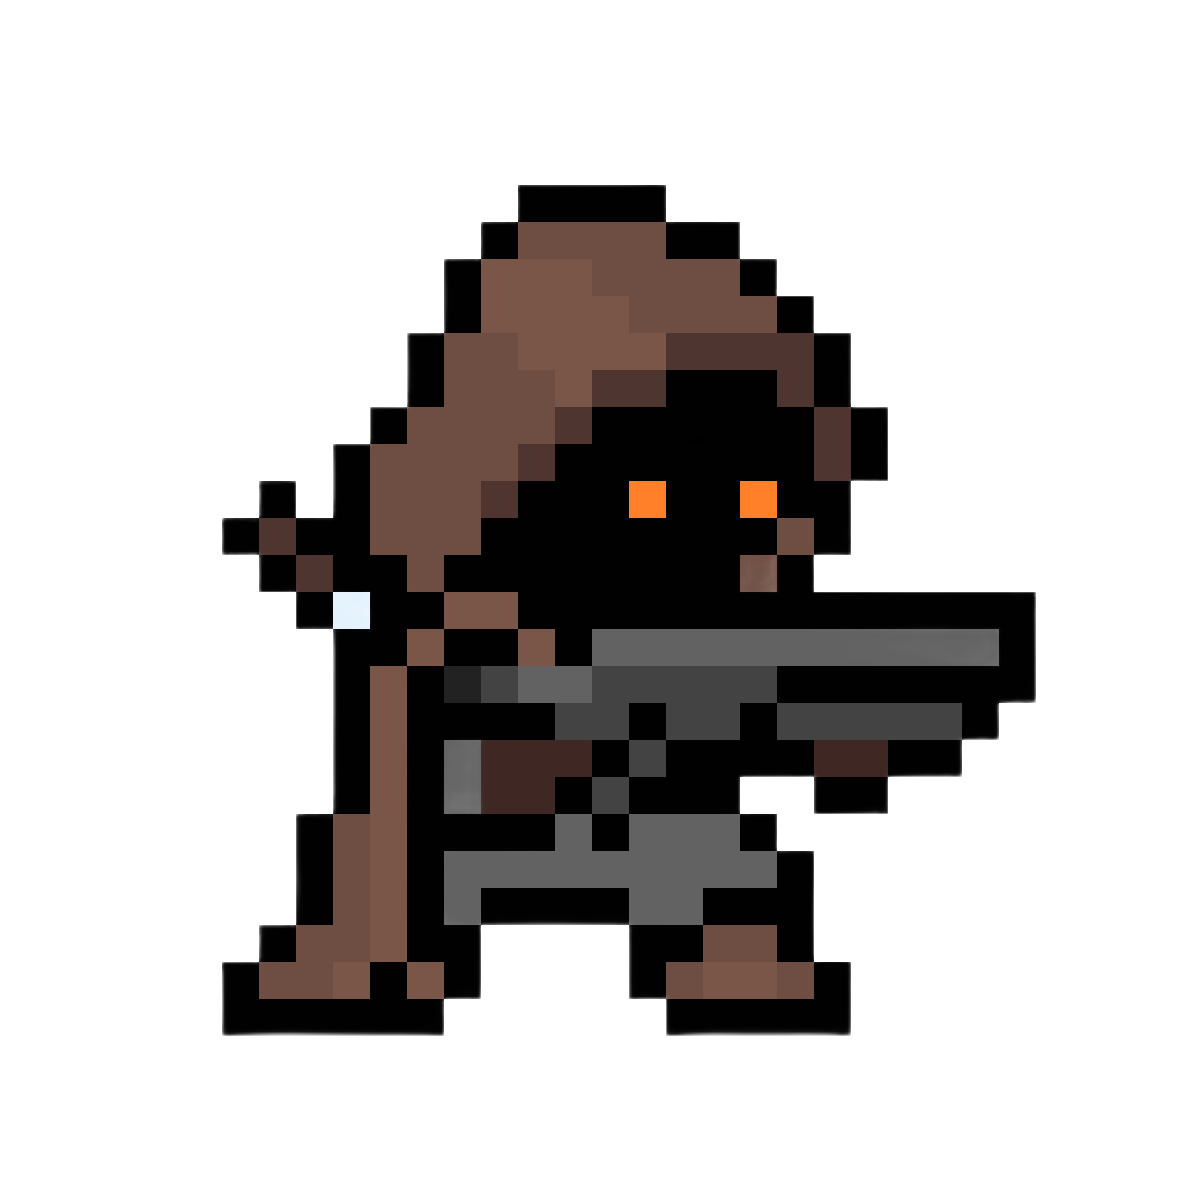
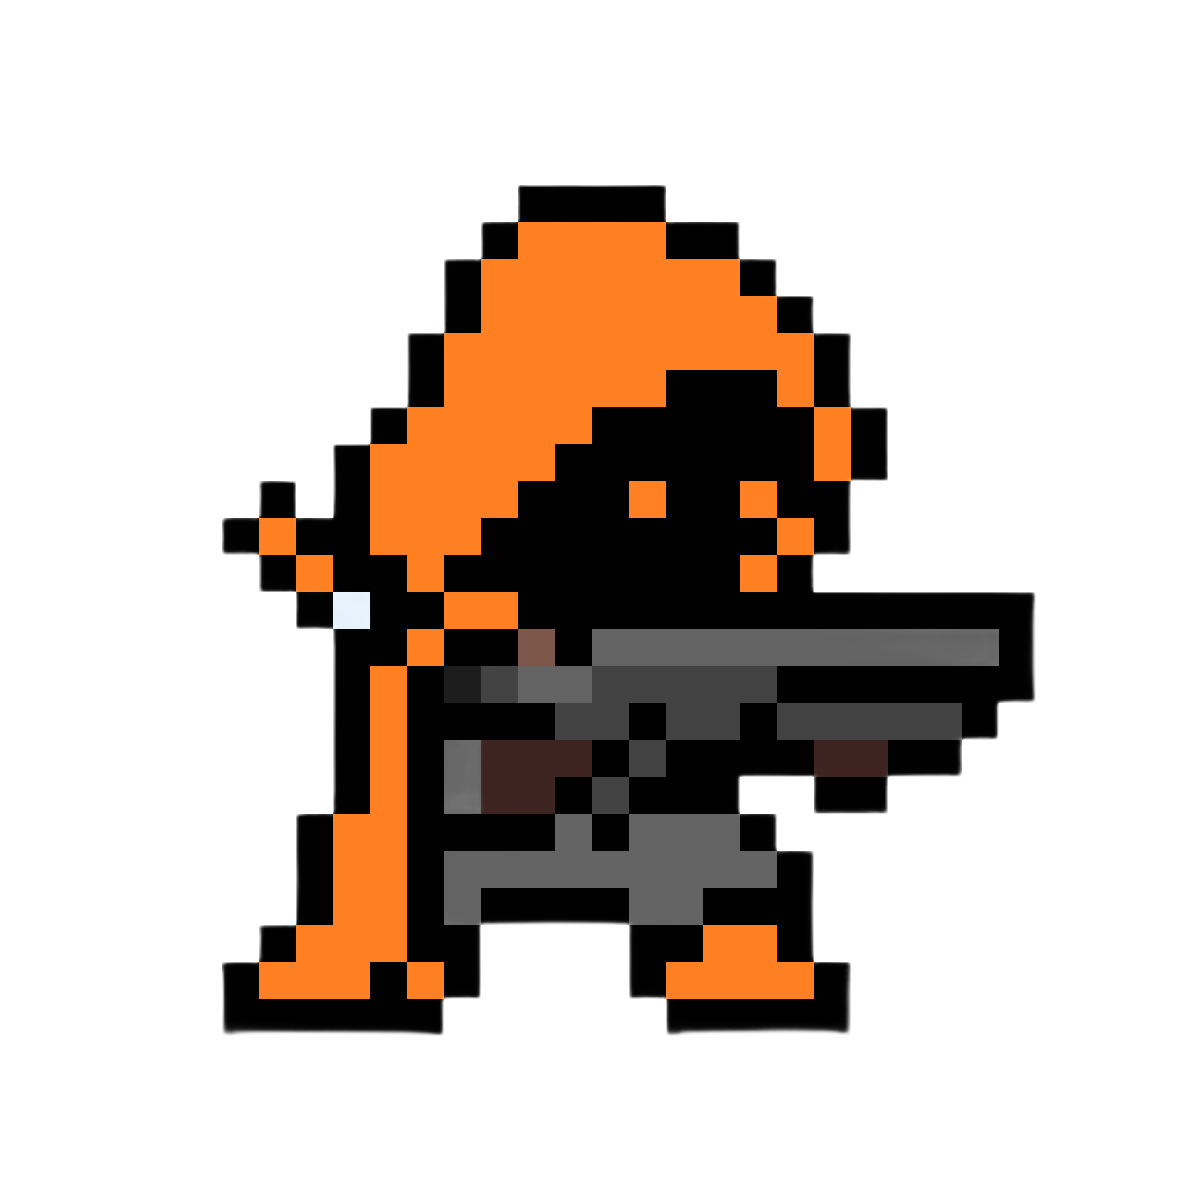
_

diff --git a/titkov.vladislav-game-master/src/scenes/MainMenuScene.cpp b/titkov.vladislav-game-master/src/scenes/MainMenuScene.cpp
@@ -9,6 +9,12 @@
 #include "components/TextureComponent.h"
 #include "components/TransformComponent.h"
 
+void PrintMessage(int x, int y, int cursor_y, const char* message) {
+  if (cursor_y == y) terminal_color("white");
+  terminal_print(x, y, message);
+  terminal_color("gray");
+}
+
 void MainMenuScene::OnCreate() {
   ctx_->health_ = 100;
   ctx_->bullets_ = 0;
@@ -22,10 +28,13 @@ void MainMenuScene::OnRender() {
 
   terminal_color("white");
   terminal_print(x, y, "->");
+  terminal_color("gray");
 
-  terminal_print(x + 2, min_y, "Story mode");
-  terminal_print(x + 2, min_y + 1, "Battlefield");
-  terminal_print(x + 2, min_y + 2, "Leaderboard");
+  PrintMessage(x + 2, min_y, y, "Story mode");
+  PrintMessage(x + 2, min_y + 1, y, "Battlefield");
+  PrintMessage(x + 2, min_y + 2, y, "Leaderboard");
+  PrintMessage(x + 2, min_y + 3, y, "Graphic");
+  PrintMessage(x + 2, min_y + 4, y, "Exit");
 
   if (controls_.IsPressed(TK_UP)) {
     y--;
@@ -36,11 +45,26 @@ void MainMenuScene::OnRender() {
     if (y > max_y) y = min_y;
   }
 
+  if (y == min_y + 3) {
+    if (ctx_->is_graphic) terminal_color("white");
+    terminal_print(x + 15, min_y + 3, "On");
+    terminal_color("gray");
+
+    if (!ctx_->is_graphic) terminal_color("white");
+    terminal_print(x + 19, min_y + 3, "Off");
+    terminal_color("gray");
+  }
+
   if (controls_.IsPressed(TK_ENTER)) {
     if (y == min_y) ctx_->scene_ = ctx_->levels_[static_cast<int>(2)];
     if (y == min_y + 1) ctx_->scene_ = ctx_->levels_[static_cast<int>(1)];
     if (y == min_y + 2) ctx_->scene_ = ctx_->levels_[static_cast<int>(ctx_->levels_.size() - 4)];
+    if (y == min_y + 3) ctx_->is_graphic = !ctx_->is_graphic;
+    if (y == min_y + 4) ctx_->is_exit = true;
   }
+
+  if (y == min_y + 3 && (controls_.IsPressed(TK_RIGHT) || controls_.IsPressed(TK_LEFT)))
+    ctx_->is_graphic = !ctx_->is_graphic;
 
   terminal_refresh();
 }

diff --git a/titkov.vladislav-game-master/src/scenes/BattlefieldScene.cpp b/titkov.vladislav-game-master/src/scenes/BattlefieldScene.cpp
@@ -8,6 +8,7 @@
 #include "components/DamageComponent.h"
 #include "components/DoorComponent.h"
 #include "components/FoodComponent.h"
+#include "components/GraphicComponent.h"
 #include "components/HealthComponent.h"
 #include "components/MovementComponent.h"
 #include "components/PlayerMoveControlComponent.h"
@@ -72,6 +73,7 @@ void BattlefieldScene::OnRender() {
     entity->Add<DamageComponent>(50);
     entity->Add<TransformComponent>(i, j);
     entity->Add<TextureComponent>('E');
+    entity->Add<GraphicComponent>(0x03);
   }
 
   if (snake_delay.IsReady()) {
@@ -93,6 +95,7 @@ void BattlefieldScene::OnRender() {
     entity->Add<PoisonComponent>(50);
     entity->Add<TransformComponent>(i, j);
     entity->Add<TextureComponent>('S');
+    entity->Add<GraphicComponent>(0x04);
   }
 
   if (bullet_delay.IsReady()) {
@@ -108,6 +111,7 @@ void BattlefieldScene::OnRender() {
     entity->Add<ColorComponent>("green");
     entity->Add<TransformComponent>(i, j);
     entity->Add<TextureComponent>('$');
+    entity->Add<GraphicComponent>(0x06);
   }
 
   if (food_delay.IsReady()) {
@@ -123,6 +127,7 @@ void BattlefieldScene::OnRender() {
     entity->Add<ColorComponent>("green");
     entity->Add<TransformComponent>(i, j);
     entity->Add<TextureComponent>('%');
+    entity->Add<GraphicComponent>(0x07);
   }
 
   if (antidote_delay.IsReady()) {
@@ -138,6 +143,7 @@ void BattlefieldScene::OnRender() {
     entity->Add<ColorComponent>("green");
     entity->Add<TransformComponent>(i, j);
     entity->Add<TextureComponent>('&');
+    entity->Add<GraphicComponent>(0x05);
   }
 
   enemy_delay.Update();

diff --git a/titkov.vladislav-game-master/src/scenes/BattlefieldGameOverScene.cpp b/titkov.vladislav-game-master/src/scenes/BattlefieldGameOverScene.cpp
@@ -4,9 +4,15 @@
 
 #include <string>
 
+void PrintMessage(int x, int y, int cursor_y, const char* message) {
+  if (cursor_y == y) terminal_color("white");
+  terminal_print(x, y, message);
+  terminal_color("gray");
+}
+
 void BattlefieldGameOverScene::OnCreate() {
   ctx_->attempts_++;
-    for (int i = 0; i < 3; i++) {
+  for (int i = 0; i < 3; i++) {
     if (ctx_->score_ >= ctx_->score_leaders_[i]) {
       for (int j = 2; j > i; j--) {
         ctx_->score_leaders_[j] = ctx_->score_leaders_[j - 1];
@@ -26,14 +32,15 @@ void BattlefieldGameOverScene::OnRender() {
   std::string score = "Scores: " + std::to_string(ctx_->score_);
 
   terminal_print(35, 11, "Game over");
-  terminal_print(30, 15, steps.c_str());
-  terminal_print(30, 16, score.c_str());
+  terminal_print(35, 15, steps.c_str());
+  terminal_print(35, 16, score.c_str());
 
   terminal_color("white");
   terminal_print(x, y, "->");
+  terminal_color("gray");
 
-  terminal_print(x + 2, min_y, "Leaderboard");
-  terminal_print(x + 2, min_y + 1, "Main menu");
+  PrintMessage(x + 2, min_y, y, "Leaderboard");
+  PrintMessage(x + 2, min_y + 1, y, "Main menu");
 
   if (controls_.IsPressed(TK_UP)) {
     y--;

diff --git a/titkov.vladislav-game-master/src/Reader.cpp b/titkov.vladislav-game-master/src/Reader.cpp
@@ -88,6 +88,7 @@ void Reader::ReadFile() {
             entity->Add<ColorComponent>("yellow");
             entity->Add<TransformComponent>(i, j);
             entity->Add<TextureComponent>('X');
+            entity->Add<GraphicComponent>(0x10);
           }
 
           else if (myArray[i][j] == '#') {
@@ -103,6 +104,7 @@ void Reader::ReadFile() {
             entity->Add<DoorComponent>(false);
             entity->Add<TransformComponent>(i, j);
             entity->Add<TextureComponent>('<');
+            entity->Add<GraphicComponent>(0x09);
 
             if (ctx_->is_it_next_level_ && player->Contains<TransformComponent>()) {
               player->Get<TransformComponent>()->x_ = i + 1;
@@ -115,6 +117,7 @@ void Reader::ReadFile() {
             entity->Add<DoorComponent>(true);
             entity->Add<TransformComponent>(i, j);
             entity->Add<TextureComponent>('>');
+            entity->Add<GraphicComponent>(0x09);
 
             if (!ctx_->is_it_next_level_ && player->Contains<TransformComponent>()) {
               player->Get<TransformComponent>()->x_ = i - 1;

diff --git a/titkov.vladislav-game-master/src/systems/BoxSystem.cpp b/titkov.vladislav-game-master/src/systems/BoxSystem.cpp
@@ -7,6 +7,7 @@
 #include "components/BoxComponent.h"
 #include "components/ColorComponent.h"
 #include "components/FoodComponent.h"
+#include "components/GraphicComponent.h"
 #include "components/MovementComponent.h"
 #include "components/TextureComponent.h"
 #include "components/TransformComponent.h"
@@ -57,6 +58,7 @@ void BoxSystem::OnUpdate() {
               entity->Add<ColorComponent>("green");
               entity->Add<TransformComponent>(box_tc->x_ + rx, box_tc->y_ + ry);
               entity->Add<TextureComponent>('$');
+              entity->Add<GraphicComponent>(0x06);
 
               box_bc->bullet_count_--;
             } else if (box_bc->food_count_ > 0) {
@@ -65,6 +67,7 @@ void BoxSystem::OnUpdate() {
               entity->Add<ColorComponent>("green");
               entity->Add<TransformComponent>(box_tc->x_ + rx, box_tc->y_ + ry);
               entity->Add<TextureComponent>('%');
+              entity->Add<GraphicComponent>(0x07);
 
               box_bc->food_count_--;
             } else {

diff --git a/titkov.vladislav-game-master/include/lib/PngConverter.h b/titkov.vladislav-game-master/include/lib/PngConverter.h
@@ -13,7 +13,10 @@ class PngConverter {
     terminal_set("0x05: pictures/antidote.png, resize=16x16, align=center");
     terminal_set("0x06: pictures/bullet.png, resize=16x16, align=center");
     terminal_set("0x07: pictures/heal.png, resize=16x16, align=center");
-    terminal_set("0x08: pictures/wall.png, resize=12x24, align=center");
+    terminal_set("0x08: pictures/wall.png, resize=10x24, align=center");
+    terminal_set("0x09: pictures/door.png, resize=12x16, align=center");
+    terminal_set("0x10: pictures/box.png, resize=16x16, align=center");
+
     // terminal_set(
     //     "0x02: "
     //     "/home/vlad/projects/7bits/titkov.vladislav-game-master/pictures/"

diff --git a/titkov.vladislav-game-master/src/systems/RenderingSystem.cpp b/titkov.vladislav-game-master/src/systems/RenderingSystem.cpp
@@ -15,7 +15,7 @@ void RenderingSystem::OnUpdate() {
   for (auto& entity : GetEntityManager()) {
     if (entity.Contains<TransformComponent>()) {
       auto transform = entity.Get<TransformComponent>();
-      if (entity.Contains<GraphicComponent>()) {
+      if (entity.Contains<GraphicComponent>() && ctx_->is_graphic) {
         terminal_put(transform->x_, transform->y_, entity.Get<GraphicComponent>()->symbol_);
       } else if (entity.Contains<TextureComponent>()) {
         if (entity.Contains<ColorComponent>()) terminal_color(entity.Get<ColorComponent>()->color_);

diff --git a/titkov.vladislav-game-master/src/scenes/GameOverScene.cpp b/titkov.vladislav-game-master/src/scenes/GameOverScene.cpp
@@ -15,8 +15,8 @@ void GameOverScene::OnRender() {
   std::string score = "Scores: " + std::to_string(ctx_->score_);
 
   terminal_print(35, 11, "Game over");
-  terminal_print(30, 15, steps.c_str());
-  terminal_print(30, 16, score.c_str());
+  terminal_print(35, 15, steps.c_str());
+  terminal_print(35, 16, score.c_str());
 
   terminal_color("white");
   terminal_print(x, y, "->");

diff --git a/titkov.vladislav-game-master/include/lib/Context.h b/titkov.vladislav-game-master/include/lib/Context.h
@@ -31,6 +31,8 @@ class Context {
   int score_leaders_[3] = {0, 0, 0};
   int amount_of_steps_ = 0;
   int attempts_ = 0;
+  bool is_graphic = false;
+  bool is_exit = false;
 
   explicit Context(std::vector<std::string> levels) : levels_(std::move(levels)) {}
 };

diff --git a/titkov.vladislav-game-master/src/main.cpp b/titkov.vladislav-game-master/src/main.cpp
@@ -49,7 +49,7 @@ int main() {
 
   while (true) {
     controls.OnUpdate();
-    if (controls.IsPressed(TK_CLOSE) || controls.IsPressed(TK_ESCAPE)) {
+    if (controls.IsPressed(TK_CLOSE) || controls.IsPressed(TK_ESCAPE) || ctx.is_exit) {
       break;
     }
 

diff --git a/titkov.vladislav-game-master/include/scenes/MainMenuScene.h b/titkov.vladislav-game-master/include/scenes/MainMenuScene.h
@@ -11,9 +11,9 @@ class MainMenuScene : public IScene {
  protected:
   const Engine engine{};
 
-  int x = 30;
-  int y = 8;
-  int index = 2;
+  int x = 31;
+  int y = 9;
+  int index = 4;
   int min_y = y;
   int max_y = y + index;
 

diff --git a/titkov.vladislav-game-master/include/scenes/BattlefieldGameOverScene.h b/titkov.vladislav-game-master/include/scenes/BattlefieldGameOverScene.h
@@ -7,7 +7,7 @@
 class BattlefieldGameOverScene : public IScene {
   const Controls &controls_;
 
-  int x = 30;
+  int x = 33;
   int y = 20;
   int index = 1;
   int min_y = y;
